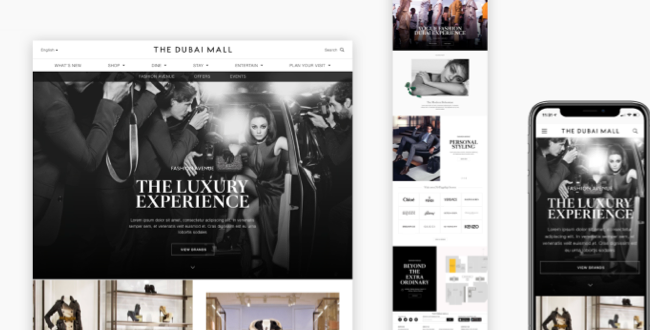
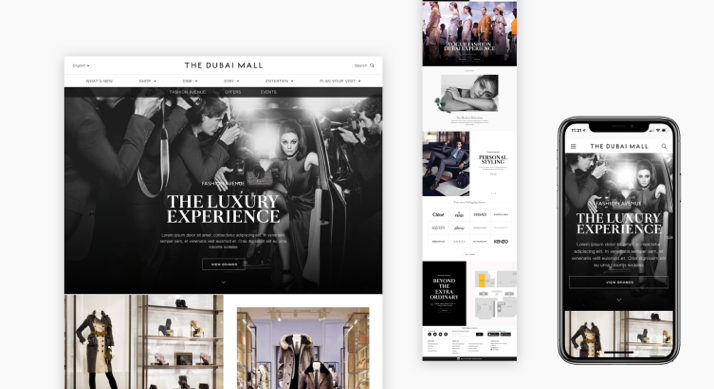
Replace Dubai Mall thumbnail and remove unused variant

diff --git a/src/data/caseStudies.js b/src/data/caseStudies.js
@@ -117,7 +117,7 @@ const CASE_STUDY_CONFIGS = [
     brand: 'The Dubai Mall',
     id: 'dubai-mall',
     folder: 'the-dubai-mall',
-    thumbnail: assetUrl('/case-studies/the-dubai-mall/thumbnail-card-tight.png'),
+    thumbnail: assetUrl('/case-studies/the-dubai-mall/thumbnail-card.png'),
     heroImage: assetUrl('/case-studies/the-dubai-mall/hero.mp4'),
     mediaMap: buildMediaMap('the-dubai-mall', {
       TDM_1: 'hero.mp4',
